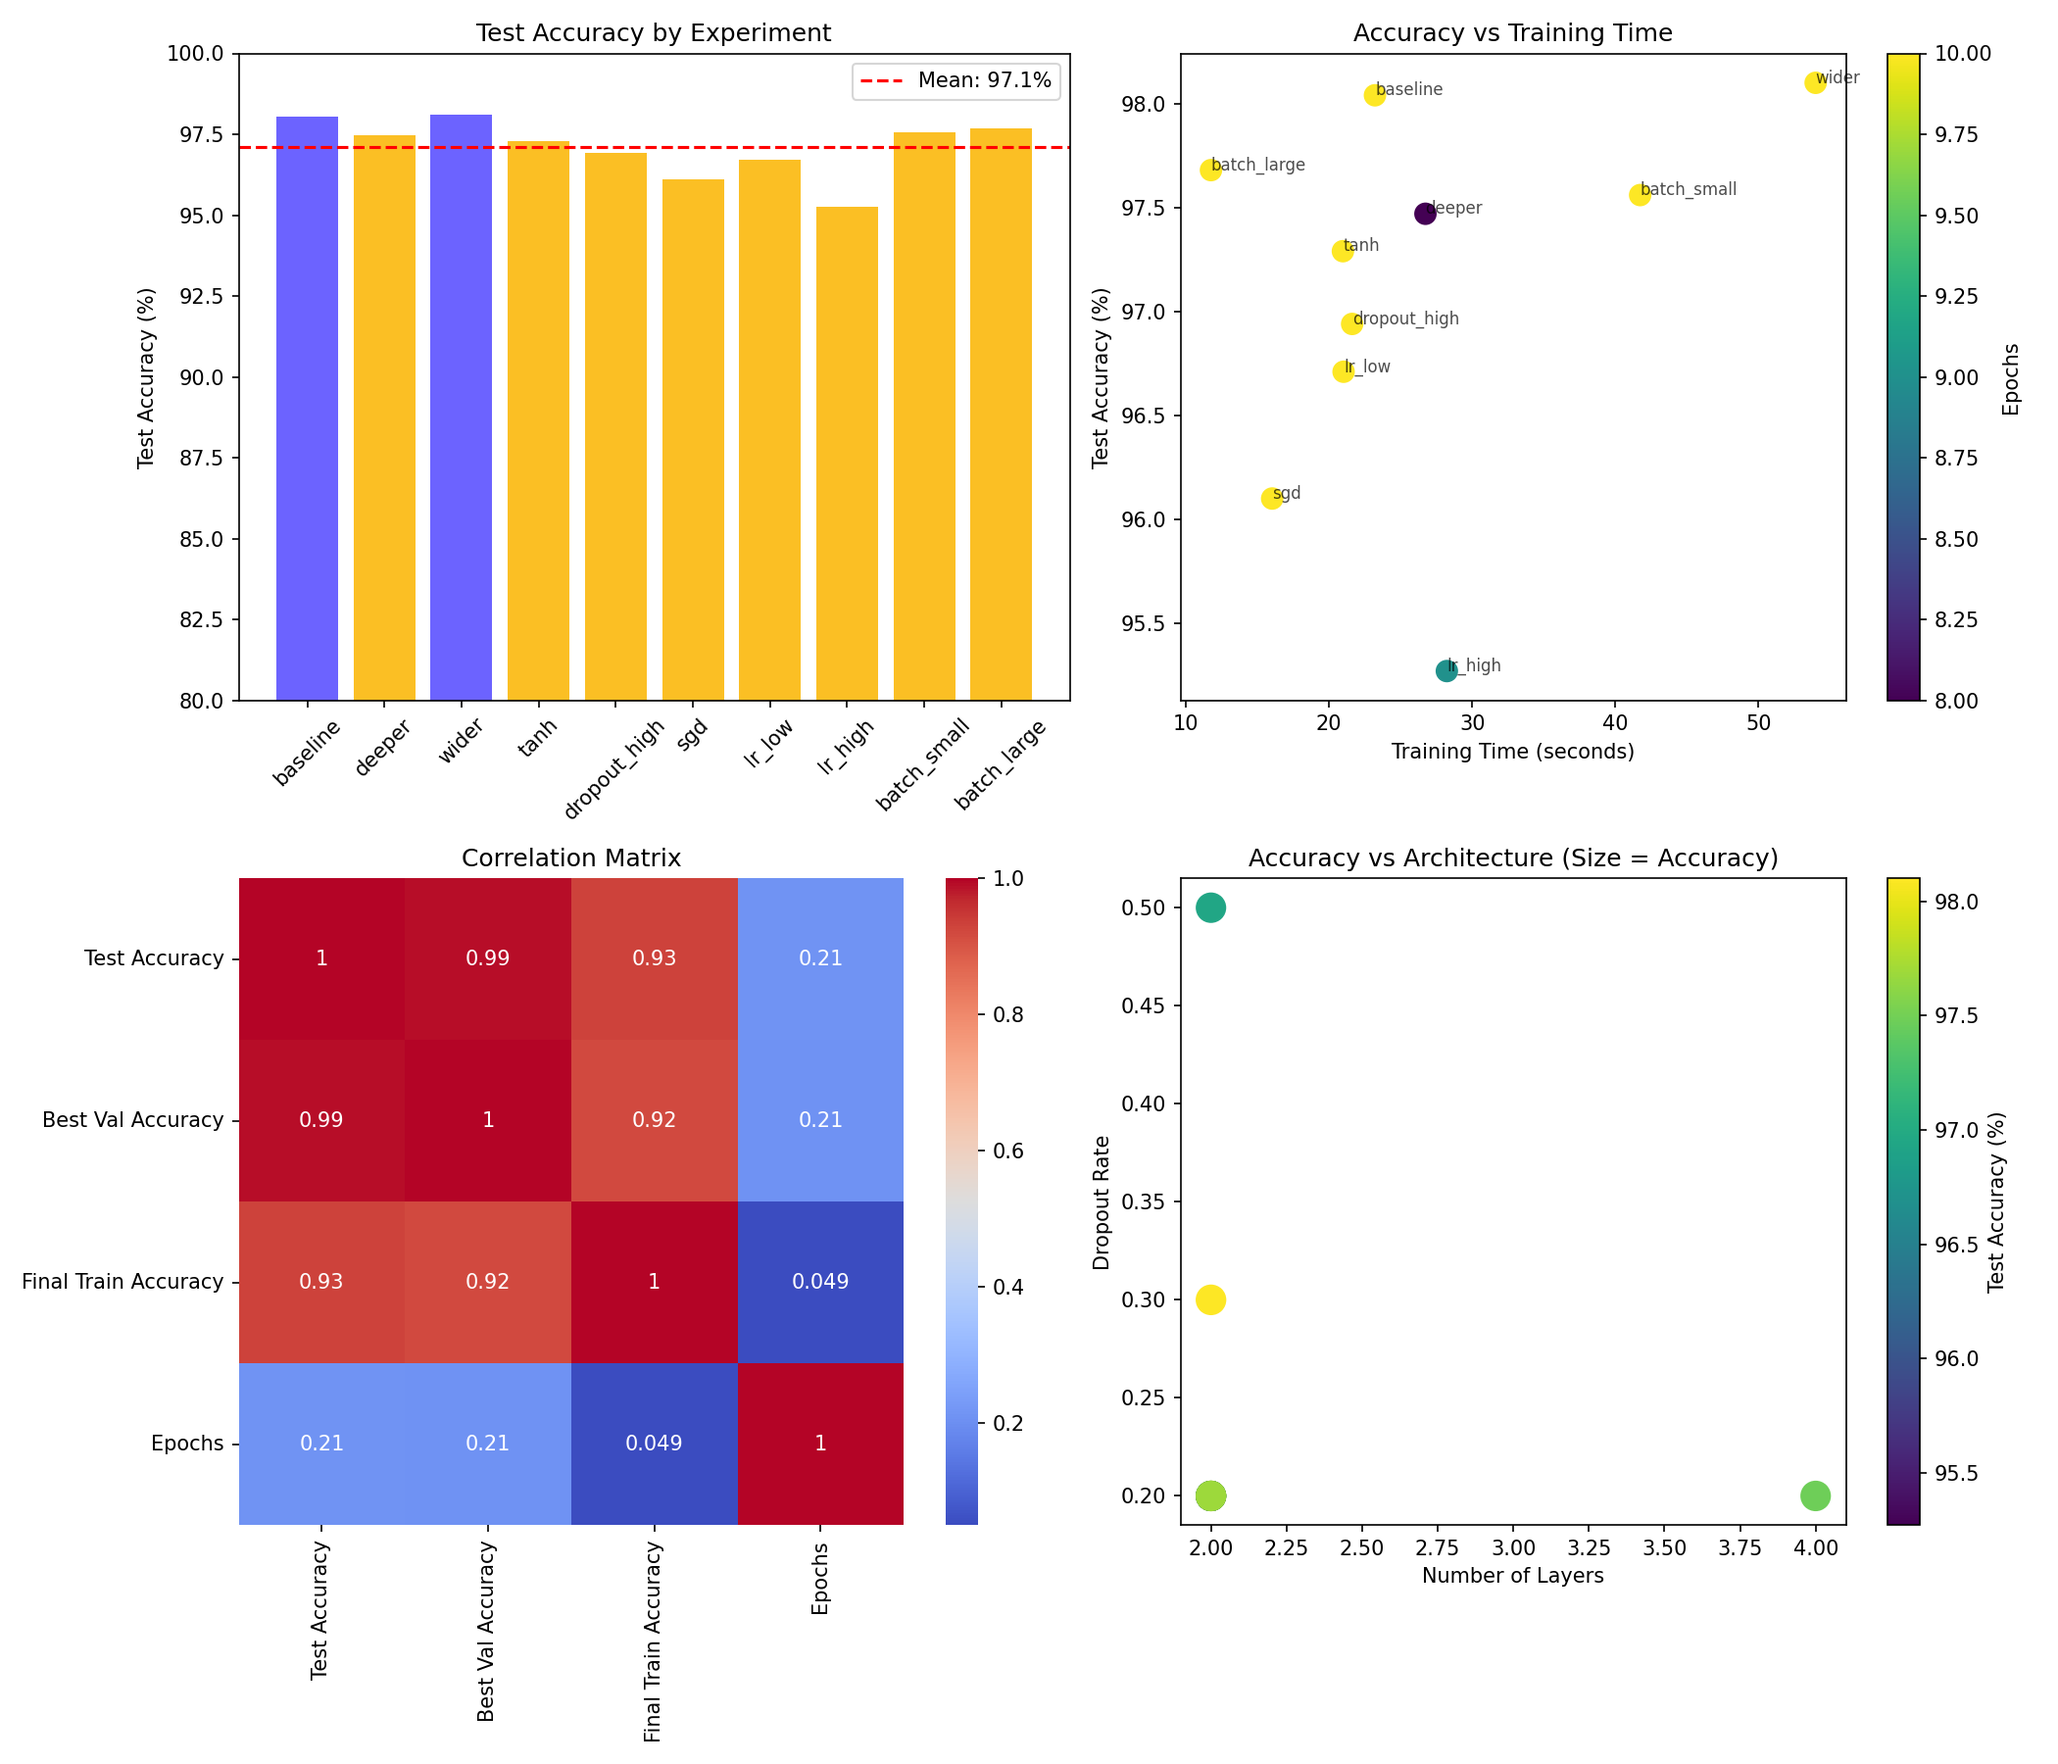
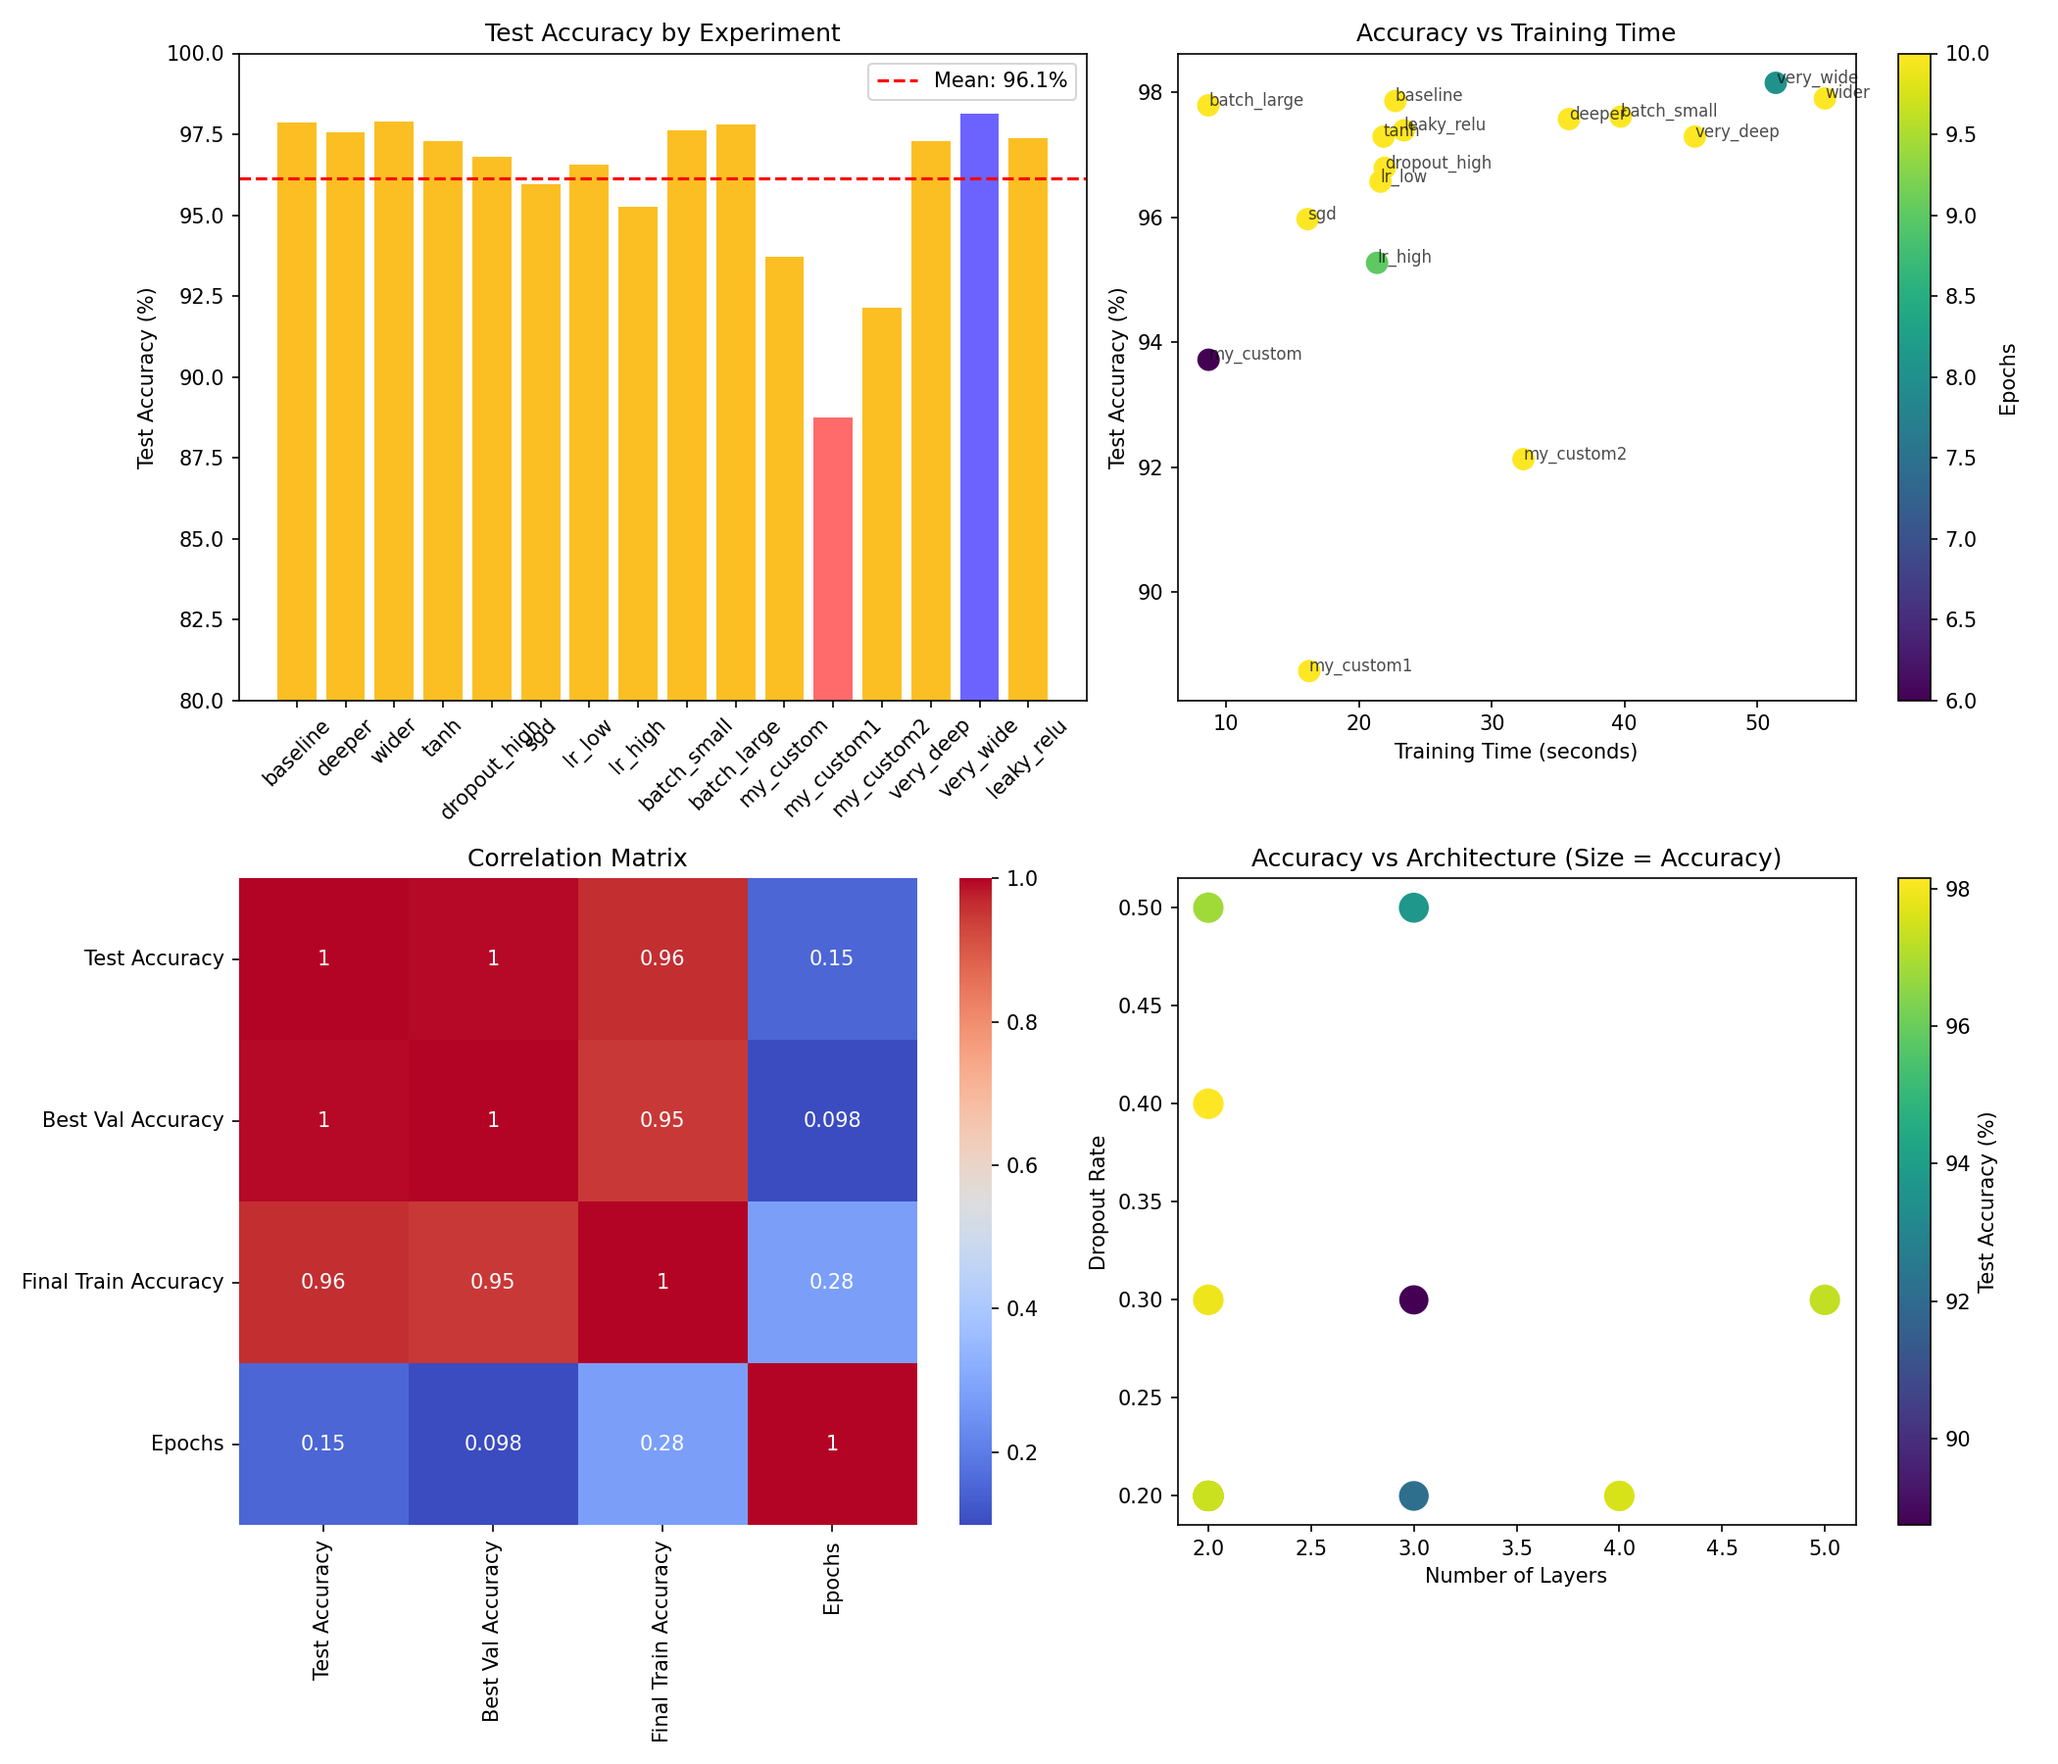
Day 4: Added 3 custom neural network architectures for testing

diff --git a/day4-neural-networks/nn_experiments.py b/day4-neural-networks/nn_experiments.py
@@ -156,32 +156,65 @@ experiments = {
         'activation': 'relu',
         'dropout': 0.5,
         'optimizer': 'adam',
-        'learning_rate': '0.01',
+        'learning_rate': 0.01,
         'batch_size': 128,
         'epochs': 10
     },
 
     # Experiment 12: My Design, My Architecture.
-        'my_custom': {
+    'my_custom1': {
         'layers': [256, 128, 64],
-        'activation': 'tahn',
+        'activation': 'tanh',
         'dropout': 0.3,
         'optimizer': 'sgd',
-        'learning_rate': '0.001',
+        'learning_rate': 0.001,
         'batch_size': 64,
         'epochs': 10
         },
 
-        # Experiment 13: My Design, My Architecture.
-            'my_custom': {
-            'layers': [256, 128, 64],
-            'activation': 'sigmoid',
-            'dropout': 0.2,
-            'optimizer': 'rmsprop',
-            'learning_rate': '0.0001',
-            'batch_size': 32,
-            'epochs': 10
-            }
+    # Experiment 13: My Design, My Architecture.
+    'my_custom2': {
+        'layers': [256, 128, 64],
+        'activation': 'sigmoid',
+        'dropout': 0.2,
+        'optimizer': 'rmsprop',
+        'learning_rate': 0.0001,
+        'batch_size': 32,
+        'epochs': 10
+   },
+
+   # Experiment 14: Very deep network (dangerous!)
+    'very_deep': {
+        'layers': [256, 128, 64, 32, 16],
+        'activation': 'relu',
+        'dropout': 0.3,
+        'optimizer': 'adam',
+        'learning_rate': 0.0005,
+        'batch_size': 32,
+        'epochs': 10
+    },
+
+    # Experiment 15: Very wide network (computationally expensive)
+    'very_wide': {
+        'layers': [1024, 512],
+        'activation': 'relu',
+        'dropout': 0.4,
+        'optimizer': 'adam',
+        'learning_rate': 0.0005,
+        'batch_size': 64,
+        'epochs': 10
+    },
+
+    # Experiment 16: Leaky ReLU (advanced activation)
+    'leaky_relu': {
+        'layers': [128, 64],
+        'activation': 'leaky_relu',
+        'dropout': 0.2,
+        'optimizer': 'adam',
+        'learning_rate': 0.001,
+        'batch_size': 32,
+        'epochs': 10
+    }
 }
 
 # ========================================
